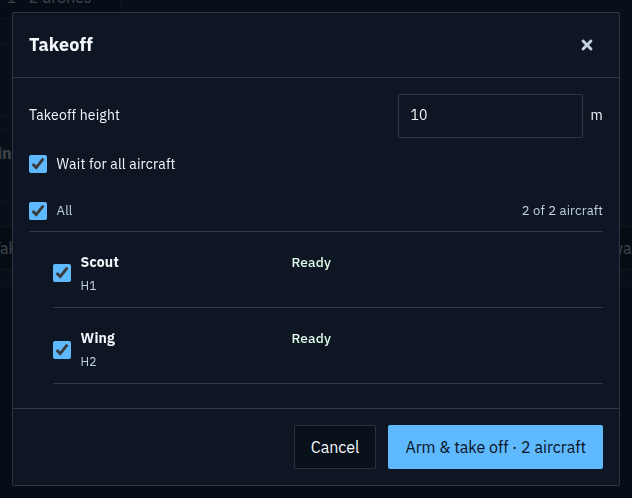
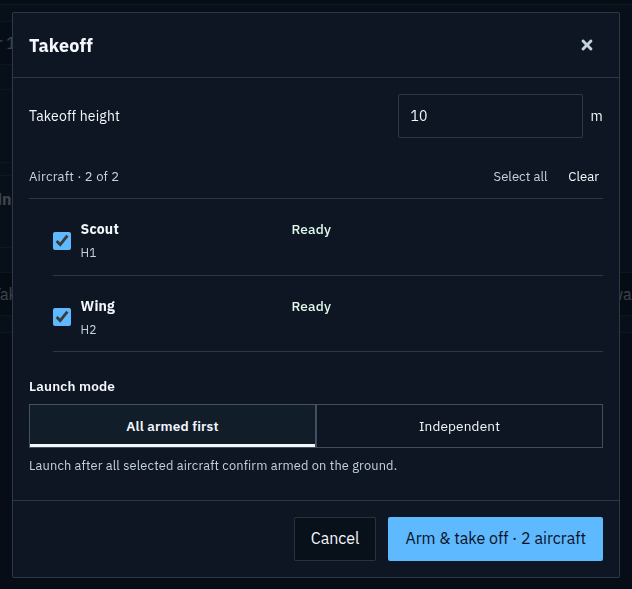
Refresh Takeoff mode guides and keyboard-tested operator captures

diff --git a/tools/probe_coordinated_takeoff_ui.py b/tools/probe_coordinated_takeoff_ui.py
@@ -80,9 +80,12 @@ def main():
                 assert client.evaluate("document.querySelector('.takeoff-review__modes input').checked")
                 assert client.evaluate("[...document.querySelectorAll('.takeoff-review__member input')].every(c=>c.checked)")
                 guide_screenshot(client, '[role=dialog]', args.output_dir/f'{theme}-{viewport}-01-ready.png')
-                client.evaluate("document.querySelectorAll('.takeoff-review__modes input')[1].click()")
-                assert client.evaluate("document.querySelectorAll('.takeoff-review__modes input')[1].checked")
+                client.evaluate("document.querySelector('.takeoff-review__modes input').focus()")
+                client.command('Input.dispatchKeyEvent', dict(type='keyDown', key='ArrowRight', code='ArrowRight', windowsVirtualKeyCode=39))
+                client.command('Input.dispatchKeyEvent', dict(type='keyUp', key='ArrowRight', code='ArrowRight', windowsVirtualKeyCode=39))
+                client.wait_for("document.querySelectorAll('.takeoff-review__modes input')[1].checked", timeout_s=3)
                 guide_screenshot(client, '[role=dialog]', args.output_dir/f'{theme}-{viewport}-07-independent.png')
+                client.evaluate("document.activeElement.blur()")
                 client.evaluate("document.querySelector('.takeoff-review__modes input').click()")
                 client.evaluate("window.__mdsExtraFixtures['/api/v1/commands/takeoff-readiness'].valid_for_ms=0; window.__mdsExtraFixtures['/api/v1/commands/takeoff-readiness'].targets[1]={hw_id:'2',status:'blocked',valid_for_ms:0,reason:'Heading estimate unstable',coordinated_takeoff_supported:true}")
                 client.wait_for("document.querySelector('.takeoff-review').textContent.includes('Heading estimate unstable')", timeout_s=8)
@@ -116,7 +119,7 @@ def main():
                 assert not client.runtime_exceptions, client.runtime_exceptions
                 assert layout(client)['documentWidth'] <= width + 2, layout(client)
                 results.append(dict(theme=theme, viewport=viewport, simulated_posts=2, external_api_writes=0,
-                                    ready=True, independent=True, blocked=True, selection=True, none=True, arming=True, cancelled=True))
+                                    ready=True, independent=True, keyboard=True, blocked=True, selection=True, none=True, arming=True, cancelled=True))
             finally:
                 if client:
                     try: client.command('Browser.close')

diff --git a/docs/plans/2026-10-30-coordinated-takeoff-checkpoint.md b/docs/plans/2026-10-30-coordinated-takeoff-checkpoint.md
@@ -3,14 +3,16 @@
 ## Accepted operator behavior
 
 One reusable Takeoff dialog for Dashboard, Smart Swarm and aircraft actions:
-height, page-scoped roster, native readiness and **Wait for all aircraft**
+height, page-scoped roster, native readiness and **All armed first** launch mode
 (default on for a group). One **Arm & take off** confirmation. Closing is not
 cancellation. Abort decisions remain **Cancelling** until recovery evidence is
 received; unconfirmed recovery never becomes a green success.
 
 The initiating aircraft are preselected. Operators can explicitly exclude and
 reinclude rows before confirmation; excluded rows remain visible and muted.
-Select-all/none and the confirmation count make the scope visible. Selection
+Select all/Clear actions and the confirmation count make the scope visible. Only
+aircraft use checkboxes; Launch mode is a separate, visible radio selector.
+Selection
 locks on confirmation, including uncertain receipt recovery; single-aircraft
 subsets use native independent Takeoff. Saved formation and complete-cluster
 Start Swarm selection are not modified.
@@ -44,8 +46,8 @@ later deployed for inspection after both aircraft were confirmed powered off;
 this does not establish installed-board revision or flight clearance.
 
 The final integrated backend run passed **570 tests**; the frontend passed
-**94 tests in 10 suites** after the selection follow-up. The strict production
-frontend build passed. The browser-only probe passed 24 simulated states across dark/light desktop/mobile,
+**95 tests in 10 suites** after the control-separation follow-up. The strict production
+frontend build passed. The browser-only probe passed 28 simulated states across dark/light desktop/mobile,
 with zero external API writes. Logs use `/tmp/mds-coordinated-*`.
 
 Real two-node PX4 SITL caught issues not represented by unit mocks:
@@ -115,6 +117,9 @@ UI-only follow-up validation covers default scope, explicit exclusion,
 select-all/none, blocked reasons at zero group lease, frozen selection and exact
 subset receipt recovery. The combined operator guide uses unmodified captured
 UI examples; all command responses in browser evidence are simulated.
+The Launch mode radio group also passed native keyboard-arrow navigation in
+each browser case. After confirmation, height/mode remain visible as an immutable
+summary while bulk selection actions disappear. No flight semantics changed.
 Shared Takeoff and Jog dialog styles load once in the app shell, avoiding
 route-dependent stylesheet ordering. The combined guide is linked from the
 [operator steps](../guides/coordinated-takeoff.md).

diff --git a/docs/guides/dashboard-operator.md b/docs/guides/dashboard-operator.md
@@ -100,7 +100,8 @@ barrier reduces partial launches, but final PX4 and node checks remain
 per-aircraft and cannot make physical takeoff atomic.
 
 Standalone **Takeoff** opens one shared review: height, exact aircraft and live
-readiness. For a group, **Wait for all aircraft** is checked by default. **Arm &
+readiness. Checkboxes select aircraft; Select all/Clear manage the list. For a
+group, **Launch mode → All armed first** is selected by default. **Arm &
 take off** arms the group, then releases takeoff only after every aircraft
 confirms armed on the ground. **Cancel launch** is available before release;
 **Close** only closes the dialog. See [Coordinated Takeoff](coordinated-takeoff.md)

diff --git a/docs/features/smart-swarm.md b/docs/features/smart-swarm.md
@@ -369,7 +369,7 @@ Important operator rule:
 - normal Smart Swarm starts are cluster-first: the page opens the first executable
   saved cluster and shows the full leader/follower roster before confirmation;
   a leader-only target is rejected before dispatch
-- multi-aircraft standalone Takeoff defaults to **Wait for all aircraft**:
+- multi-aircraft standalone Takeoff defaults to **Launch mode → All armed first**:
   confirm native readiness, arm all, then release takeoff only after every
   selected aircraft confirms armed on ground. The shared dialog includes height,
   per-aircraft reasons and progress. See the
